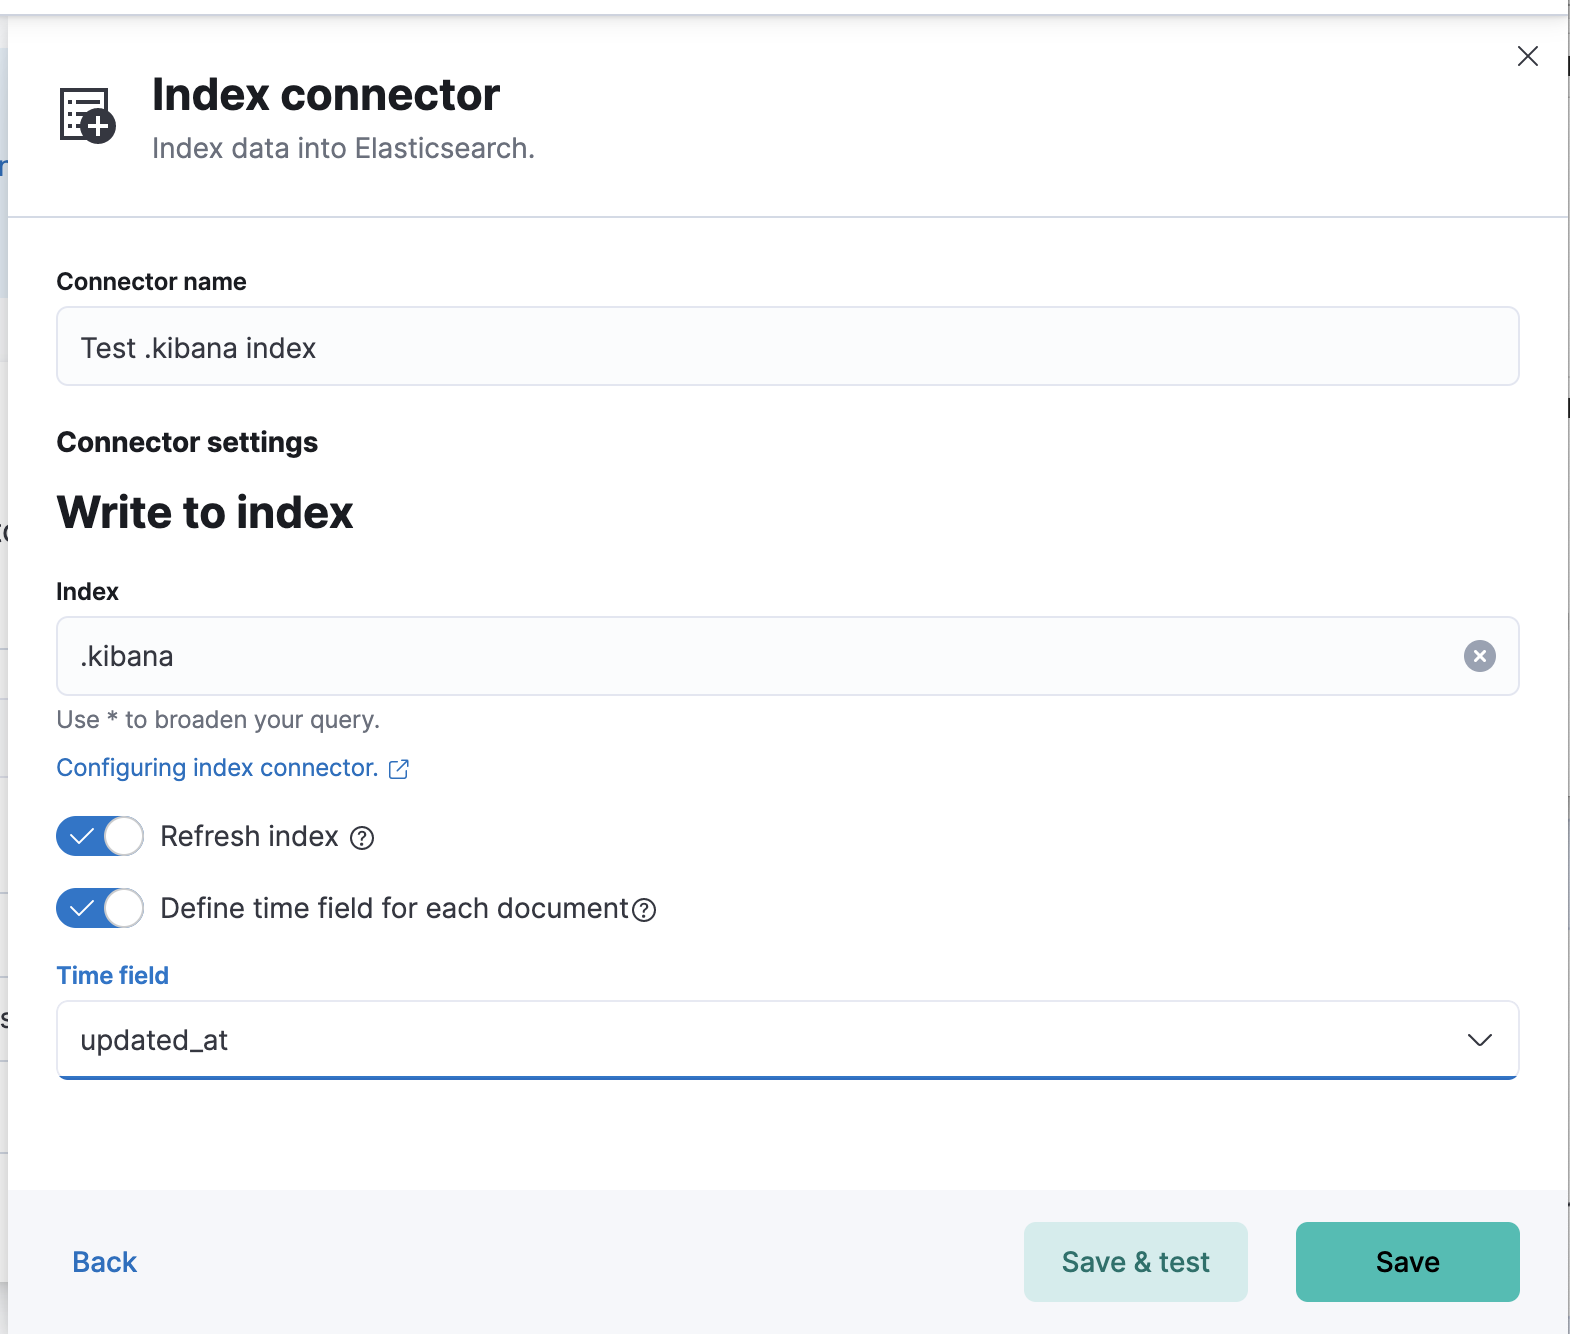
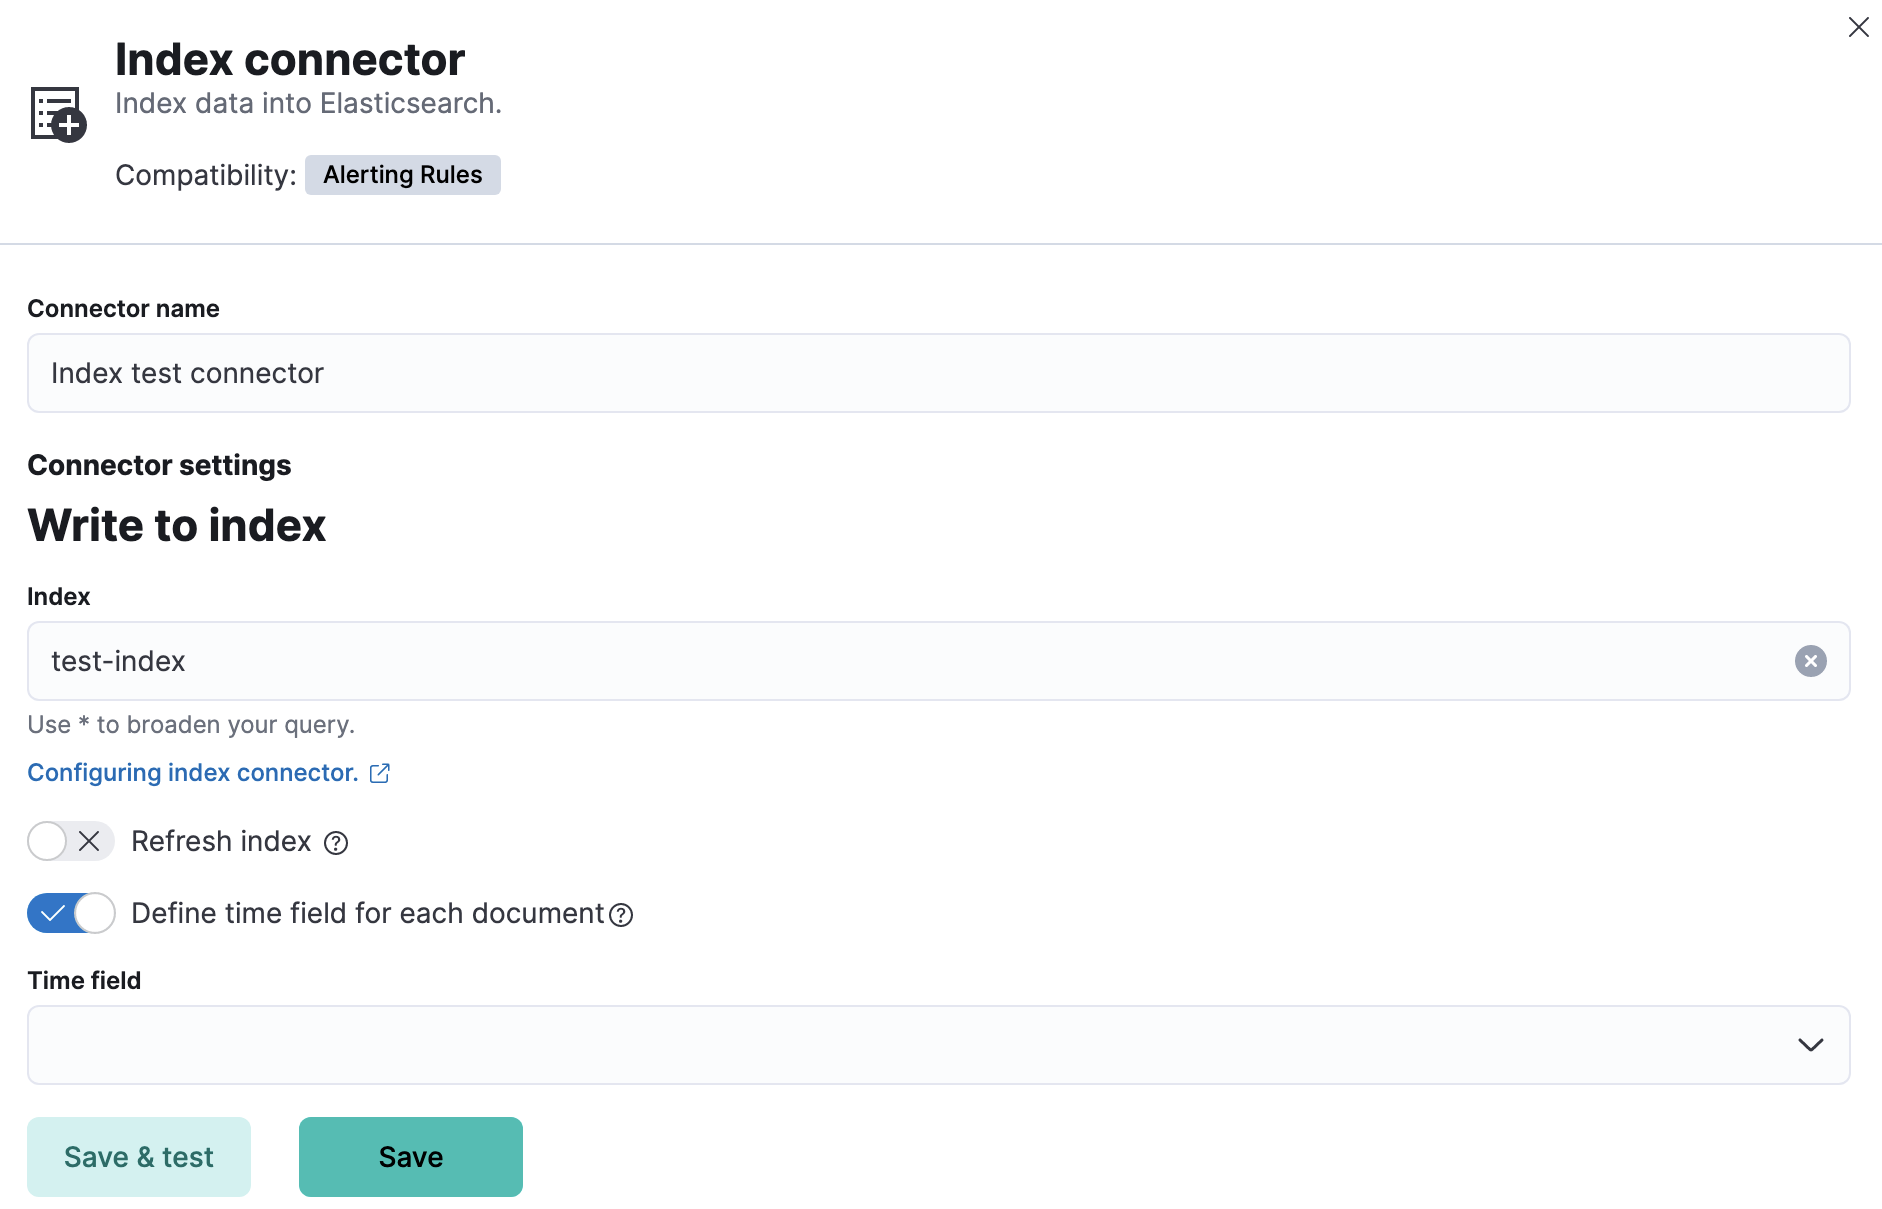
[DOCS] Improve index connector, automate screenshots (#150126)

diff --git a/x-pack/test/screenshot_creation/apps/response_ops_docs/stack_alerting/connector_types.ts b/x-pack/test/screenshot_creation/apps/response_ops_docs/stack_alerting/connector_types.ts
@@ -13,6 +13,15 @@ export default function ({ getService, getPageObjects }: FtrProviderContext) {
   const pageObjects = getPageObjects(['common', 'header']);
   const actions = getService('actions');
   const testSubjects = getService('testSubjects');
+  const comboBox = getService('comboBox');
+  const es = getService('es');
+  const testIndex = `test-index`;
+  const indexDocument =
+    `{\n` +
+    `"rule_id": "{{rule.id}}",\n` +
+    `"rule_name": "{{rule.name}}",\n` +
+    `"alert_id": "{{alert.id}}",\n` +
+    `"context_message": "{{context.message}}"\n`;
 
   describe('connector types', function () {
     beforeEach(async () => {
@@ -20,7 +29,7 @@ export default function ({ getService, getPageObjects }: FtrProviderContext) {
       await pageObjects.header.waitUntilLoadingHasFinished();
     });
 
-    it('serverlog connector screenshot', async () => {
+    it('server log connector screenshots', async () => {
       await pageObjects.common.navigateToApp('connectors');
       await pageObjects.header.waitUntilLoadingHasFinished();
       await actions.common.openNewConnectorForm('server-log');
@@ -31,6 +40,39 @@ export default function ({ getService, getPageObjects }: FtrProviderContext) {
       await commonScreenshots.takeScreenshot('serverlog-params-test', screenshotDirectories);
       const flyOutCancelButton = await testSubjects.find('euiFlyoutCloseButton');
       await flyOutCancelButton.click();
+    });
+
+    it('index connector screenshots', async () => {
+      await es.indices.create({
+        index: testIndex,
+        body: {
+          mappings: {
+            properties: {
+              date_updated: {
+                type: 'date',
+                format: 'epoch_millis',
+              },
+            },
+          },
+        },
+      });
+      await pageObjects.common.navigateToApp('connectors');
+      await pageObjects.header.waitUntilLoadingHasFinished();
+      await actions.common.openNewConnectorForm('index');
+      await testSubjects.setValue('nameInput', 'Index test connector');
+      await comboBox.set('connectorIndexesComboBox', testIndex);
+      const timeFieldToggle = await testSubjects.find('hasTimeFieldCheckbox');
+      await timeFieldToggle.click();
+      await commonScreenshots.takeScreenshot('index-connector', screenshotDirectories);
+      const saveTestButton = await testSubjects.find('create-connector-flyout-save-test-btn');
+      await saveTestButton.click();
+      await testSubjects.setValue('actionJsonEditor', indexDocument);
+      await commonScreenshots.takeScreenshot('index-params-test', screenshotDirectories);
+      const flyOutCancelButton = await testSubjects.find('euiFlyoutCloseButton');
+      await flyOutCancelButton.click();
+    });
+    after(async () => {
+      await es.indices.delete({ index: testIndex });
     });
   });
 }
